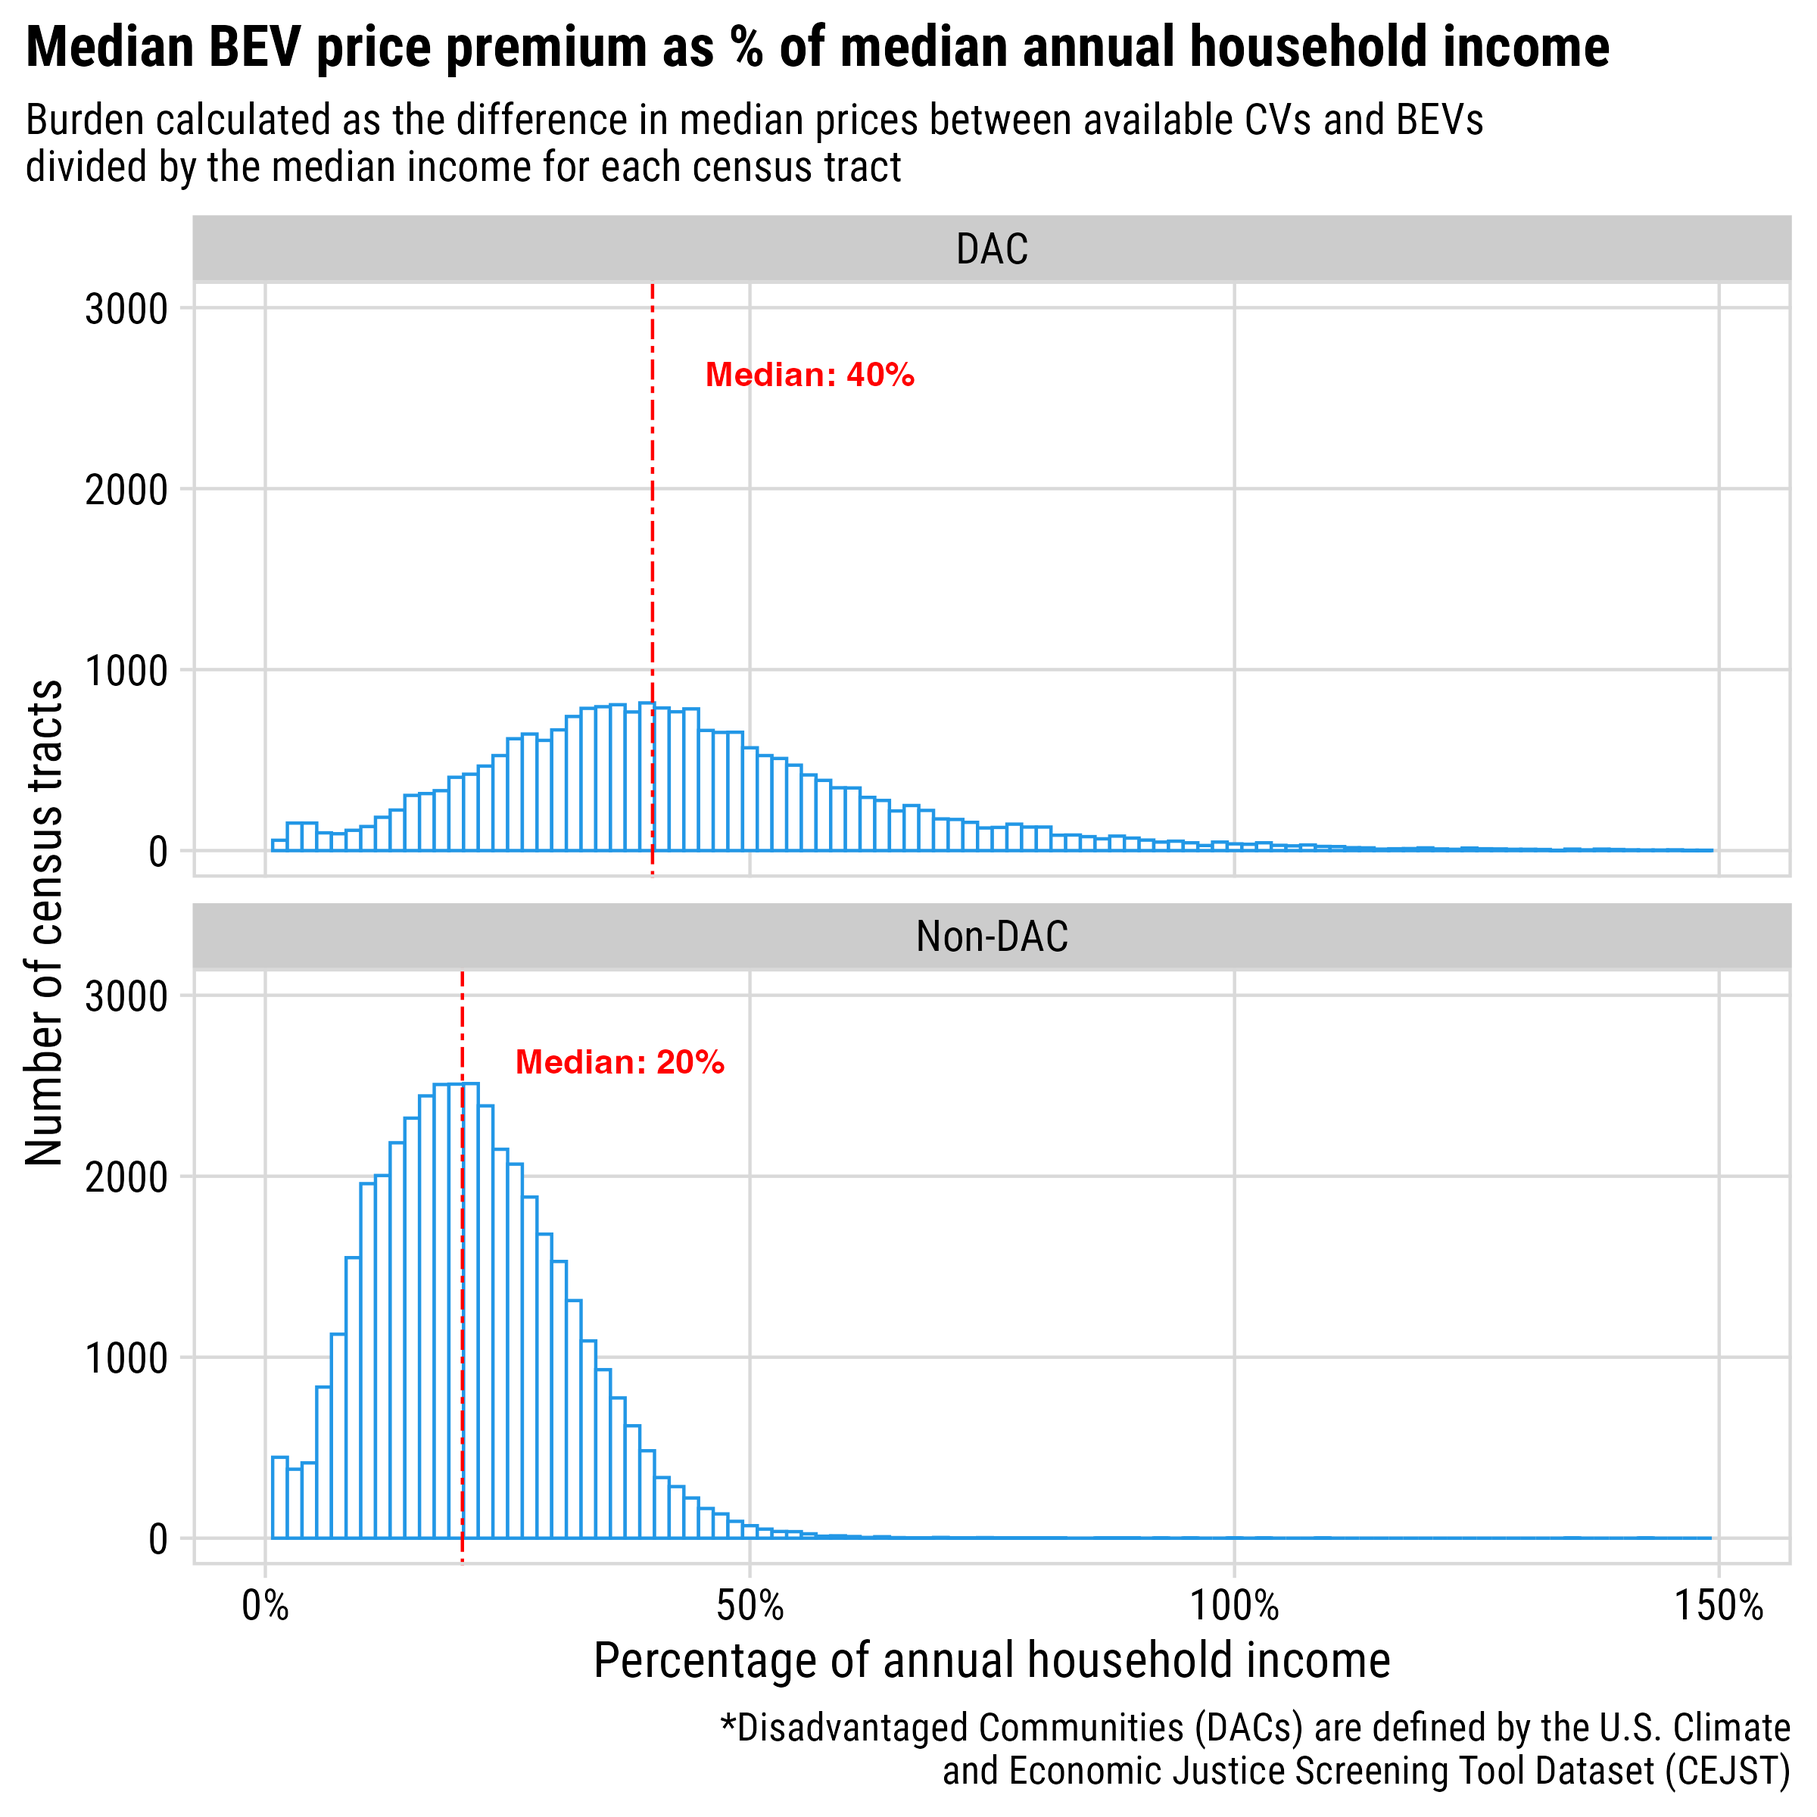
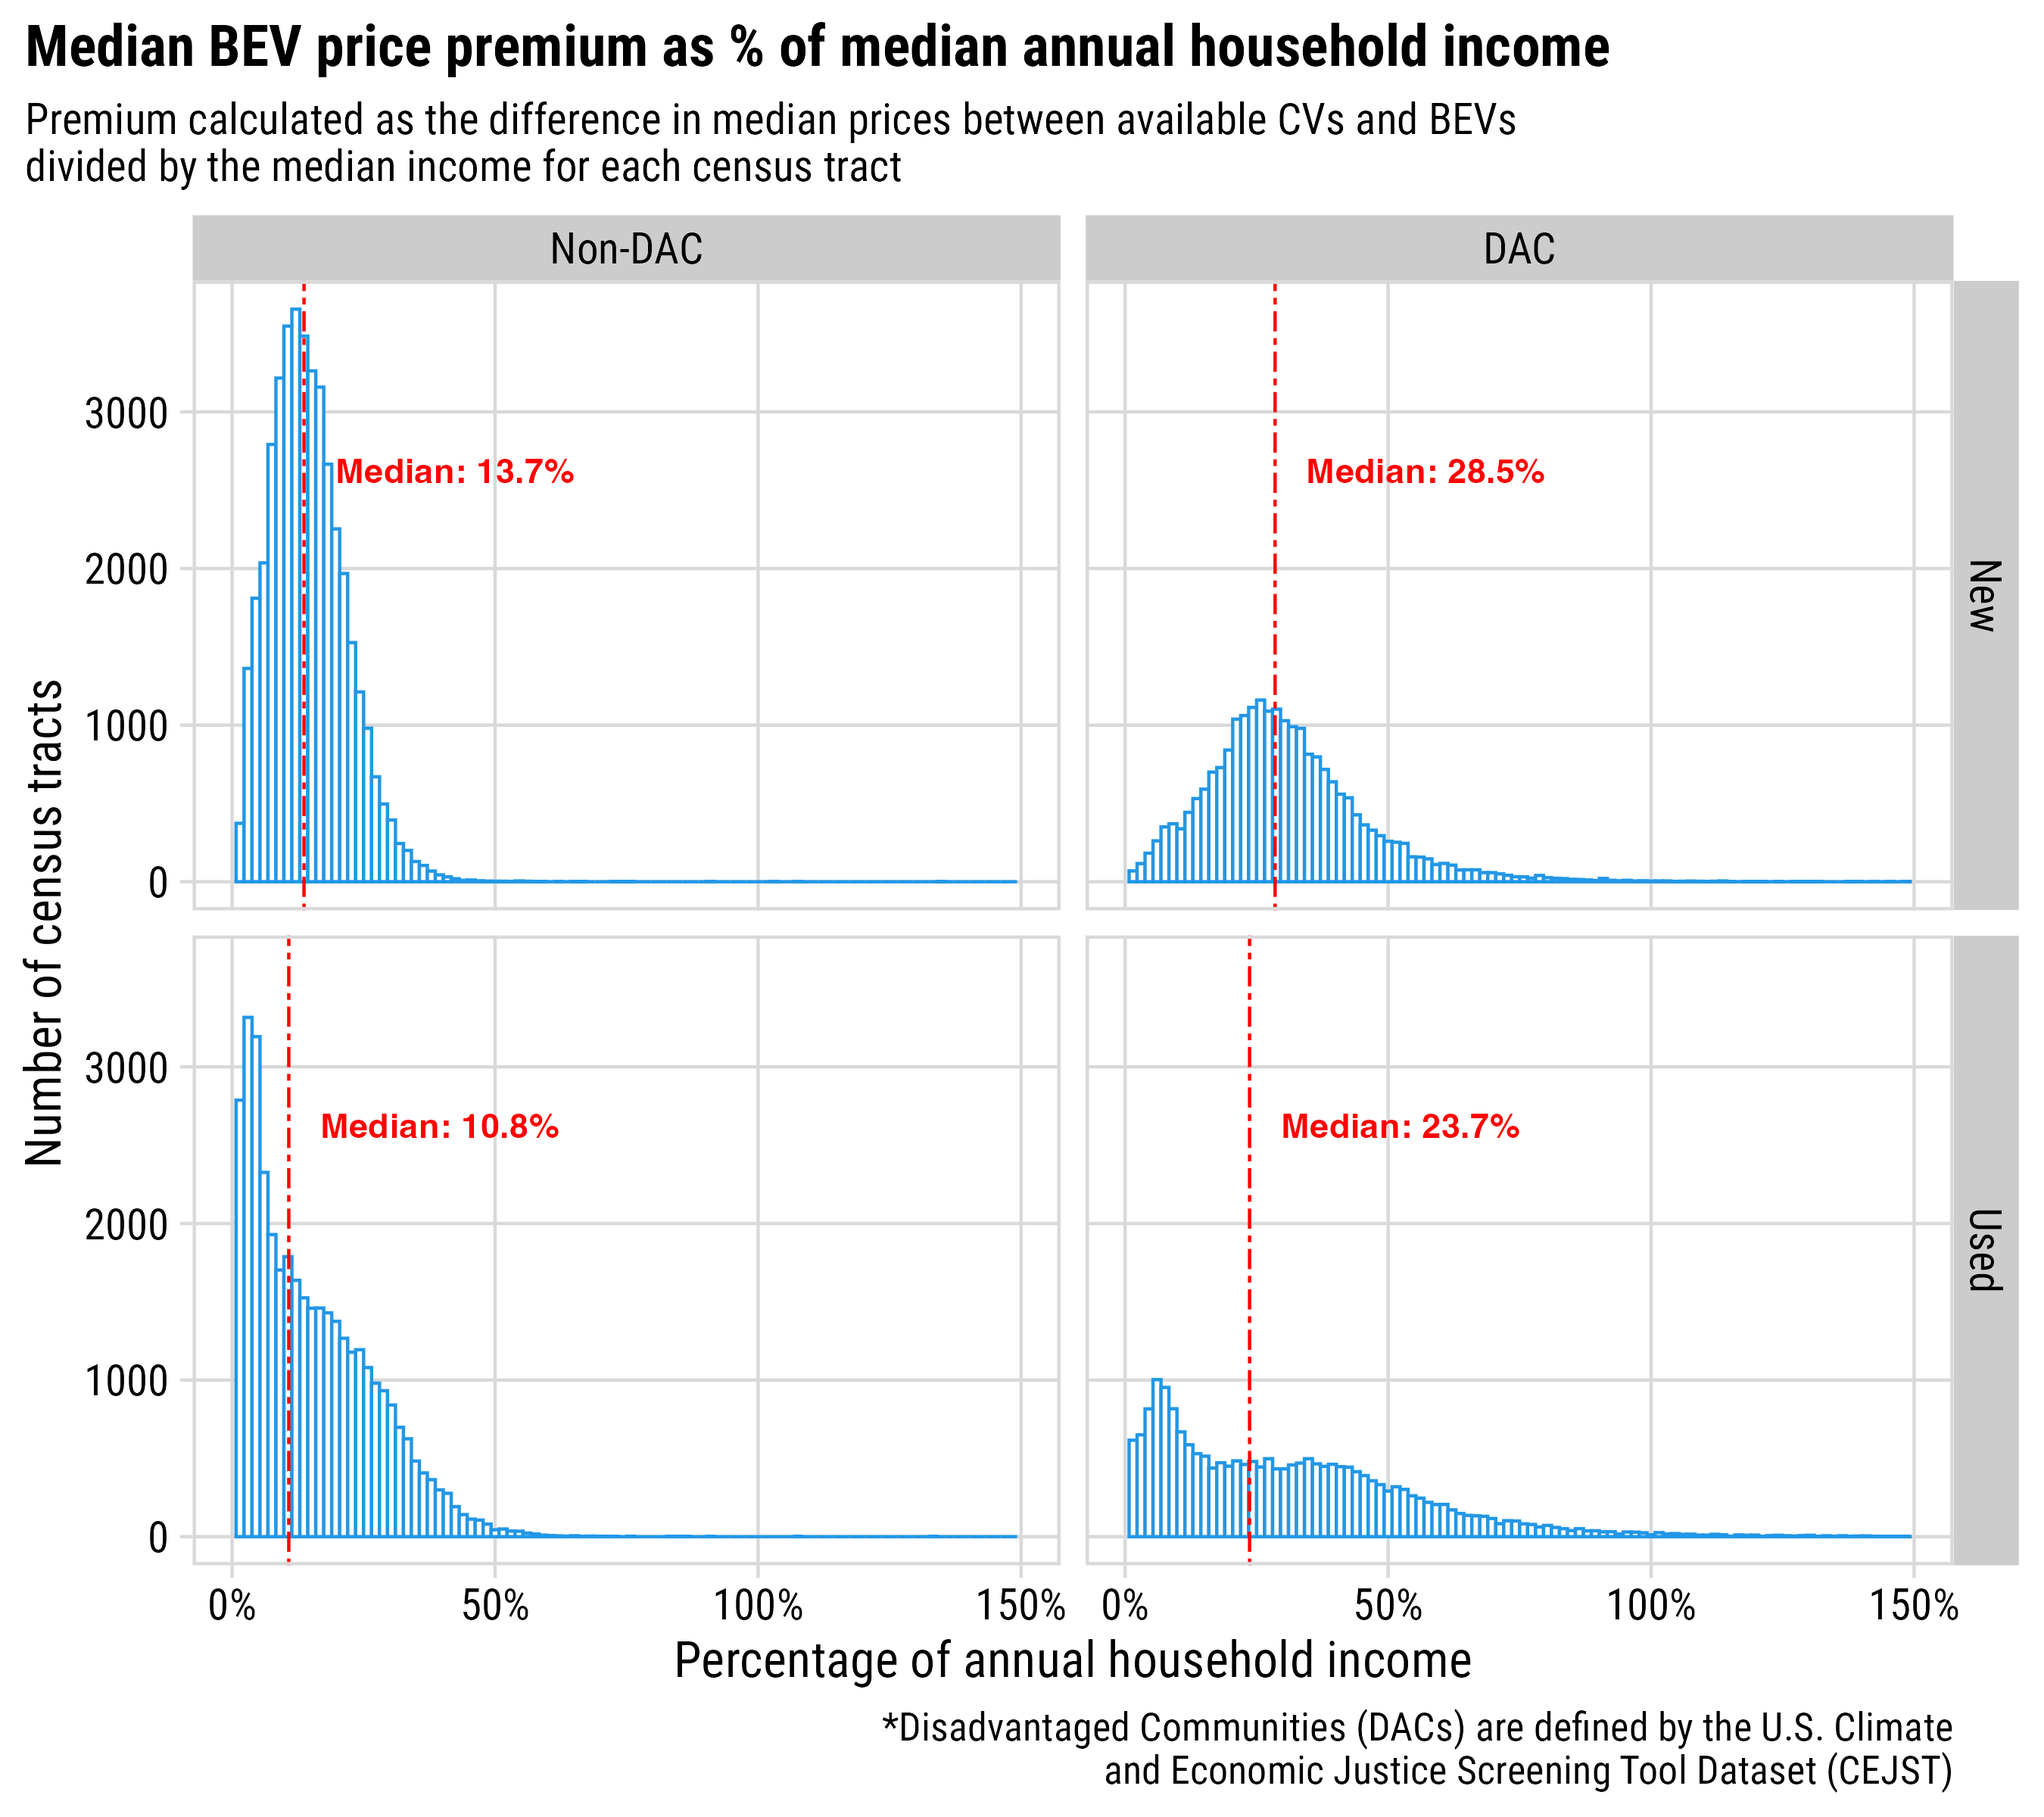
updates to price burden figures

diff --git a/2025-ev-policy-council/index.html b/2025-ev-policy-council/index.html
@@ -348,9 +348,7 @@ For each census tract:
 
 ---
 
-class: center, middle
-
-.leftcol65[
+.leftcol55[
 
 &lt;center&gt;
 &lt;img src="images/ev_burden_plot_national.png" width=100%&gt;
@@ -358,17 +356,20 @@ class: center, middle
 
 ]
 
-.rightcol35[
+.rightcol45[
 
-## Median BEV price premium is 25% of annual income
+## Median BEV price premium as % of annual household income: 
 
-]
+.font120[
+
+- New: 17.1%
+- Used: 13.6%
+
+]]
 
 ---
 
-class: center
-
-.leftcol60[
+.leftcol70[
 
 &lt;center&gt;
 &lt;img src="images/ev_burden_plot.png" width=100%&gt;
@@ -376,11 +377,16 @@ class: center
 
 ]
 
-.rightcol40[
+.rightcol30[
 
-## BEV price premium is much higher for disadvantaged communities &lt;br&gt;(median of 40% of annual income)
+## BEV premium much higher for DACs:
 
-]
+.font120[
+
+- New: 28.5%
+- Used: 23.7%
+
+]]
 
 ---
 
